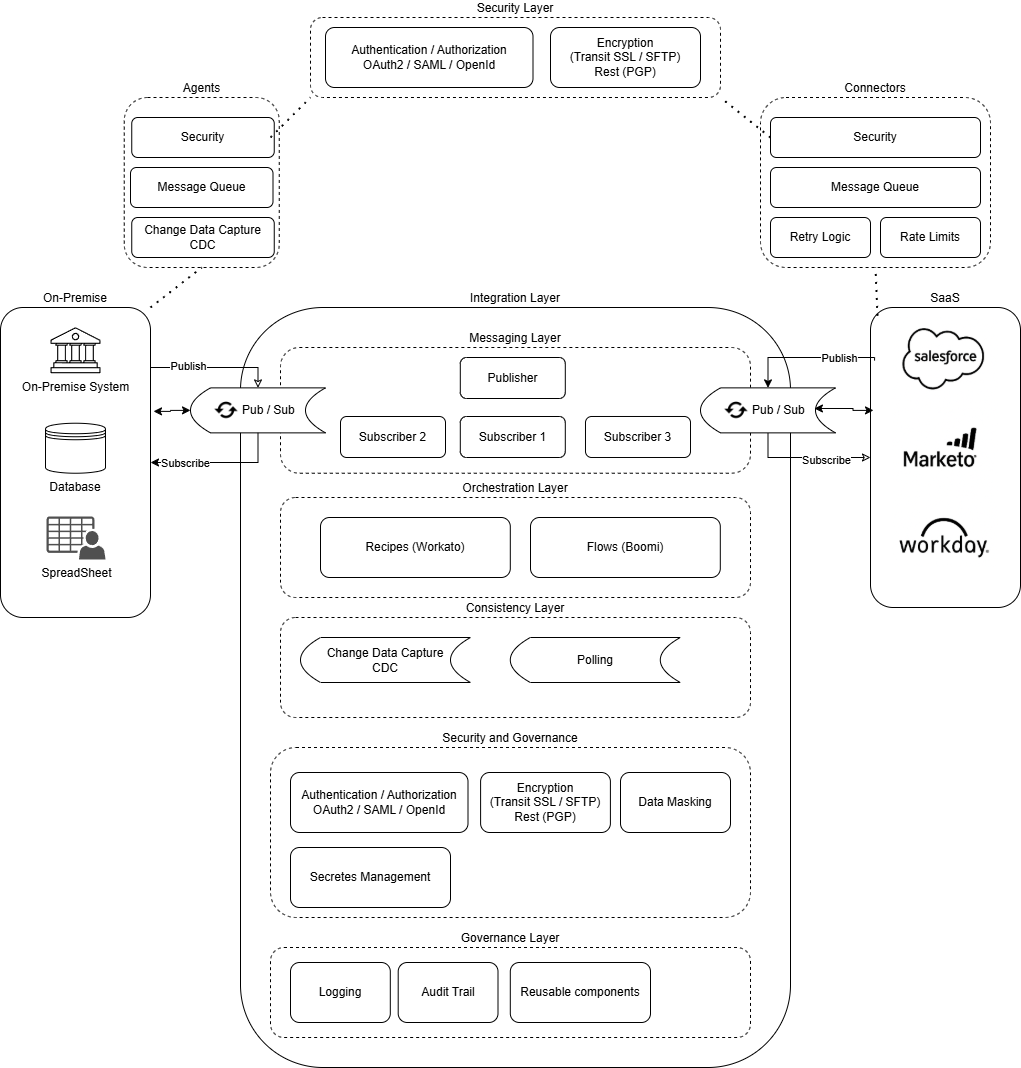
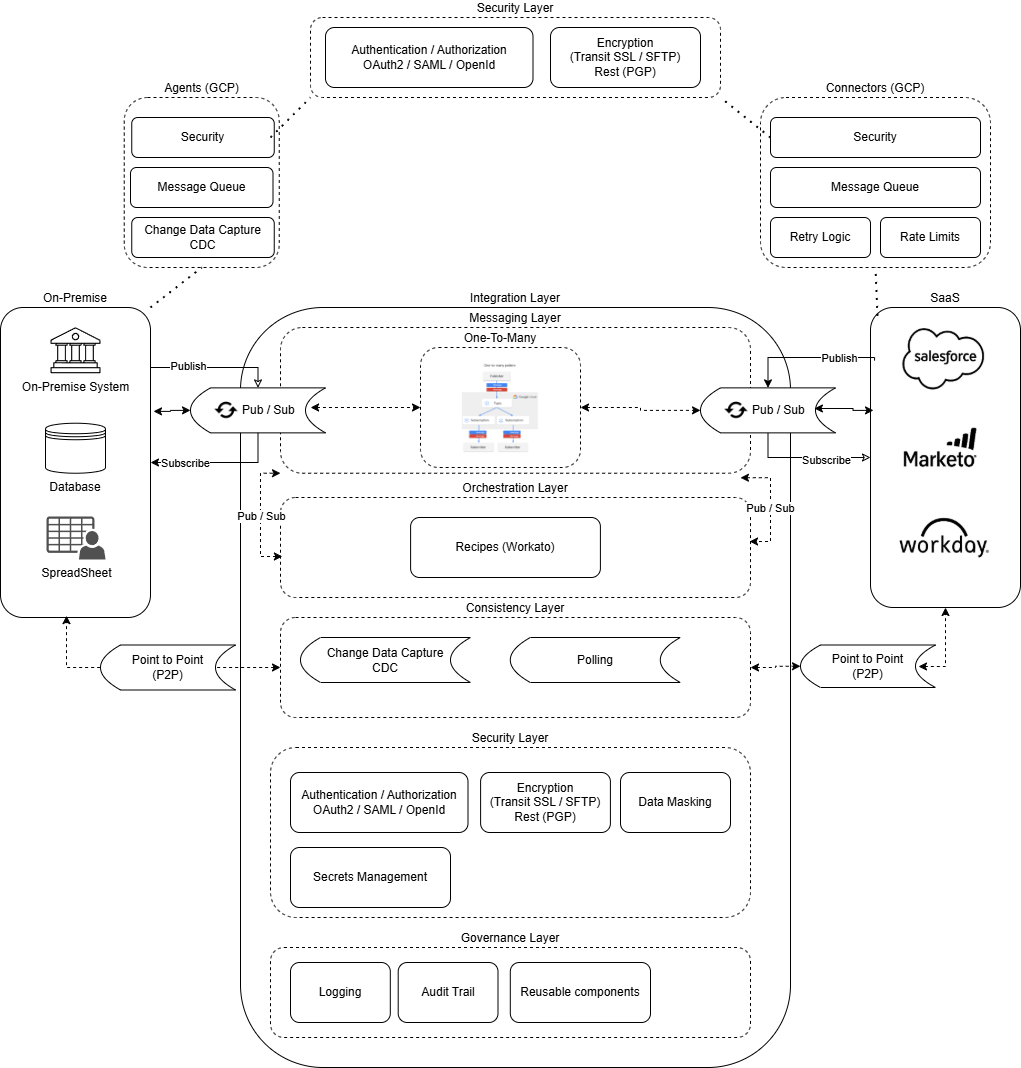
Updated Integration Article

diff --git a/_posts/2025-04-29-enterprise-integration-design.md b/_posts/2025-04-29-enterprise-integration-design.md
@@ -33,7 +33,7 @@ Event-driven, loosely coupled, multi-listener.
 There are several patterns to use in a pub / sub plaform I prefer the One-to-Many option defined below:
 
 #### One-to-Many
-A single or multiple publisher applications publish messages to a single topic. This single topic is attached to multiple subscriptions. Each subscription is connected to a single subscriber application. Each of the subscriber applications gets the same set of published messages from the topic. When a topic has multiple subscriptions, then every message has to be sent to a subscriber receiving messages on behalf of each subscription. If you need to perform different data operations on the same set of messages, fan out is a good option. You can also attach multiple subscribers to each subscription and get a load-balanced subset of messages for each subscriber.
+A single or multiple publisher applications publish messages to a single topic. This single topic is attached to multiple subscriptions. Each subscription is connected to a single subscriber application. Each of the subscriber applications gets the same set of published messages from the topic. When a topic has multiple subscriptions, then every message has to be sent to a subscriber receiving messages on behalf of each subscription. If you need to perform different data operations on the same set of messages, you can use the consistance layer to get addition information from the source as needed.
 
 ![one_to_many](https://shwag-wsu.github.io/blog/one_to_many.png)
 
@@ -45,13 +45,13 @@ Using Pub / Sub messaging there are some common pitfalls to be aware of they are
 #### Message Ordering
 Messages for the subscriber will need to be processed in the order in which they are recieved.  This is to makes sure the correct changes are applied in order this is accomplished by Enable message ordering in the subscription.  Here's a more detailed explanation:
 
-- 1. Enable Message Ordering:
+- **Enable Message Ordering:**
 When creating a subscription, enable the "Message ordering" property. This tells Pub/Sub to enforce ordering for messages associated with the same key. 
-- 2. Use Ordering Keys:
+- **Use Ordering Keys:**
 When publishing messages, include an ordering key. This key will be used to group messages together for ordered delivery. 
-- 3. Publish in the Same Region:
+- **Publish in the Same Region:**
 Messages with the same ordering key must be published in the same region to ensure ordered delivery. 
-- 4. Subscriber Behavior:
+- **Subscriber Behavior:**
 Subscribers will receive messages with the same ordering key in the order they were published, even if there are multiple subscribers to the same topic. 
 
 ##### Additional Considerations for Ordering:
@@ -71,7 +71,7 @@ By following these steps, you can ensure that your subscribers receive messages 
 #### Prevention Strategy
 To prevent the messages from circulating indefinitely within a distributed system there are a couple different step to implement within the pub/sub platform.
 
-- 1. Use Event Metadata to Track Origin
+- **Use Event Metadata** to Track Origin
   Here is a recommended standard message envelope:
   Add metadata to each message, such as:
   sourceSystem: e.g., Salesforce, BillingSystem, Workday
@@ -92,26 +92,26 @@ To prevent the messages from circulating indefinitely within a distributed syste
   }
 }
 {% endhighlight %}
- <b>How to use it:</b>
+ **How to use it:**
   When an event is received, the integration flow checks sourceSystem or processedBy and skips or logs if it already processed it.
   You can drop or flag the message if it’s circular.
   In Workato or Boomi, this is usually done with:
   Conditional steps (e.g., “Only run if source ≠ 'BillingSystem'”)
   Lookup tables or audit logs for recent event IDs
 
-- 2. Idempotency at Destination Systems
+- **Idempotency at Destination Systems**
 Make sure downstream APIs (like Salesforce, Workday) are idempotent, meaning:
 Repeating the same update doesn’t cause changes or duplicates.
 For example, updating a customer with the same data is a no-op.
 This doesn’t stop the loop, but it reduces the impact if it happens.
 
-- 3. Filtering Logic on Subscriptions
+- **Filtering Logic on Subscriptions**
 At the Pub/Sub subscription level, apply filters:
 Only subscribe to events relevant to the system (e.g., eventType = OrderStatusUpdate)
 Exclude messages originated by the system itself (via metadata)
 Some systems like GCP Pub/Sub, Kafka Streams, or AWS EventBridge support native filtering.
 
-- 4. Use Message TTLs or Hop Limits
+- **Use Message TTLs or Hop Limits**
 Add a TTL (time to live) or max hops count to messages:
 After a certain time or number of handoffs, the message is discarded or quarantined.
 This prevents zombie loops and makes debugging easier.
@@ -136,17 +136,17 @@ Coordinates business workflows and integration processes using automation platfo
 - Design modular flows for reuse.
 - Include fallback and alerting mechanisms.
 
-## Data Consistency Layer
+## Consistency Layer
 
 ### Purpose
-Ensures data consistency across systems via polling or event-driven techniques.
+Ensures data consistency across systems via polling or event-driven techniques.  This can also be used to enhance data in systems.
 
 ### Components
 - **Change Data Capture (CDC)**: Tracks real-time data changes.
-- **Polling**: Periodic checks for data changes in non-event sources.
+- **Polling**: Periodic checks for data changes in non-event sources using APIs etc.
 
 ### Best Practices
-- Prefer CDC for low-latency and efficient change detection.
+- Prefer CDC for low-latency and efficient change detection.  However 
 - Use timestamp or checkpoint-based polling to reduce load.
 
 ## Security and Governance Layer
